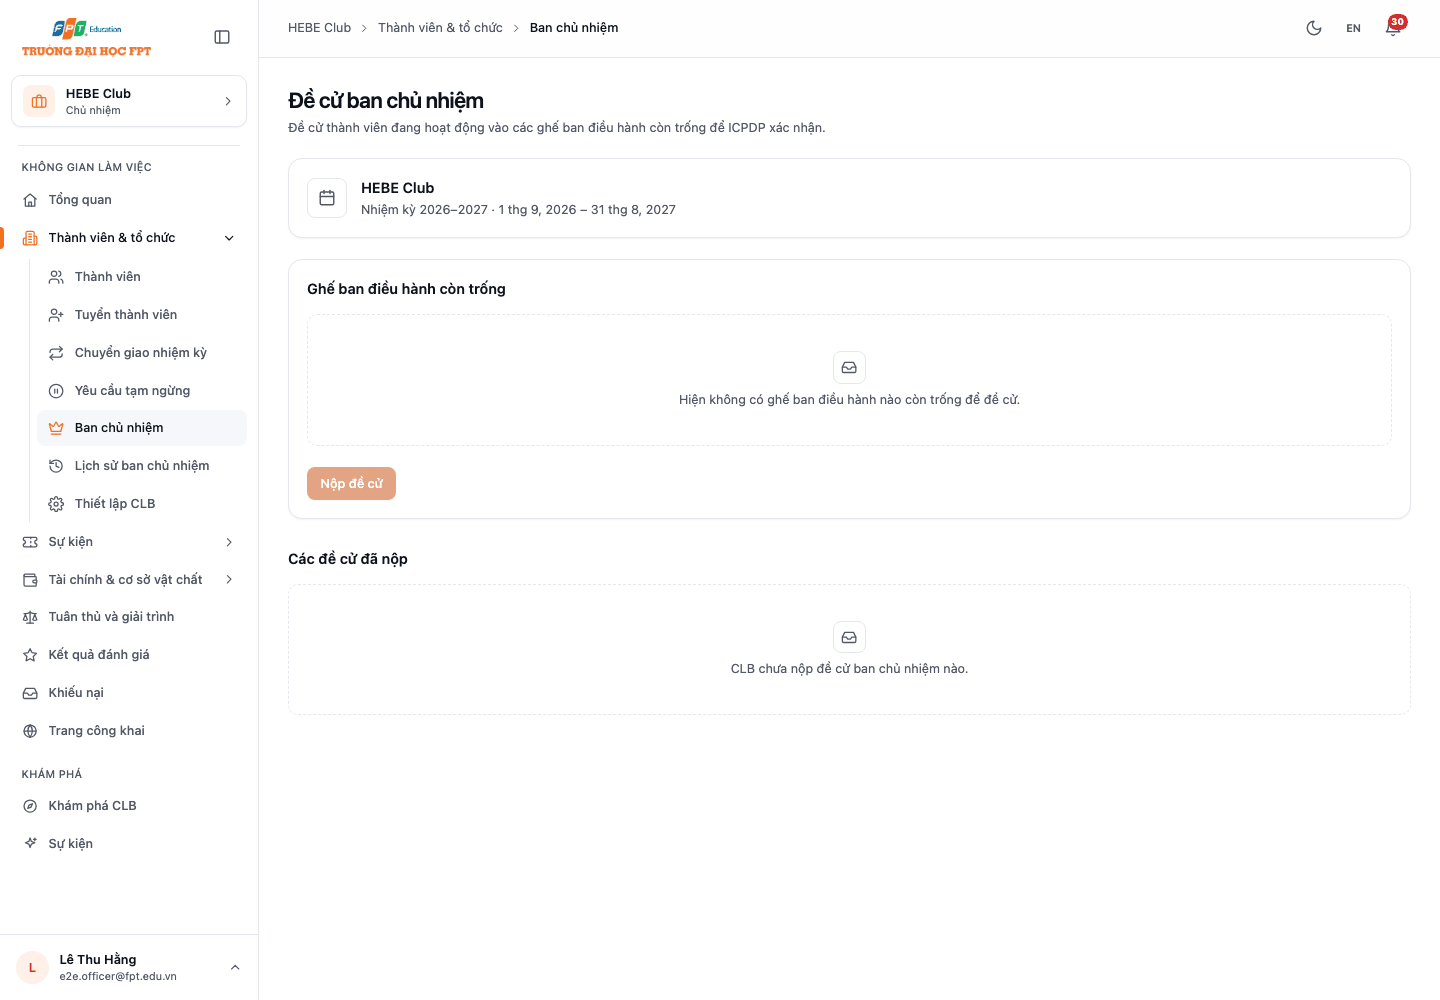
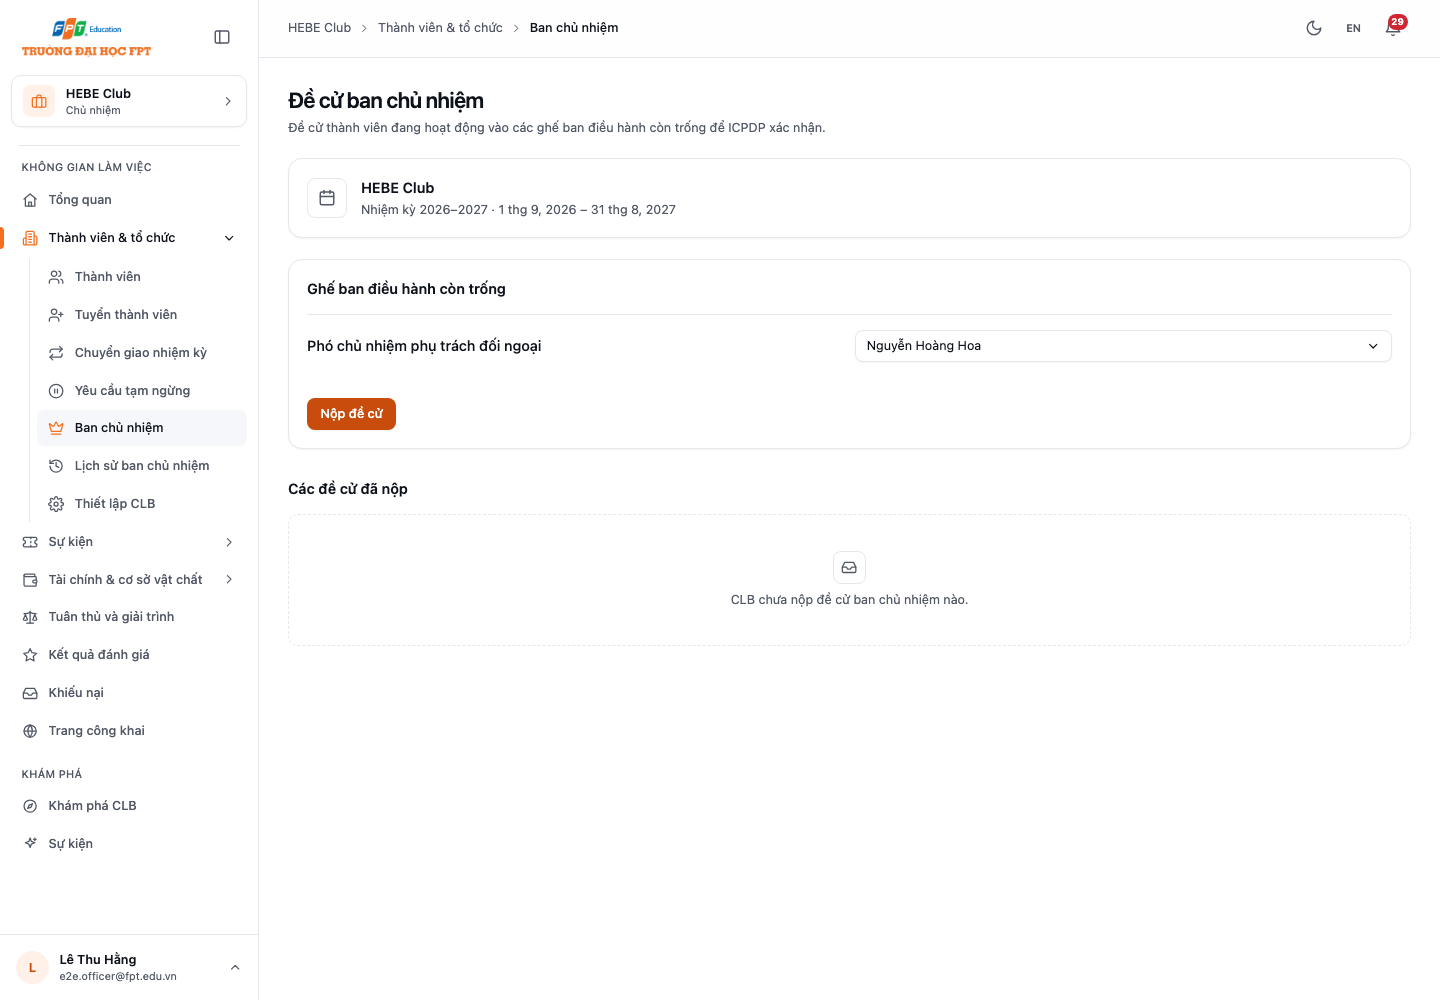
test(e2e): add guide data for board nomination, live defense room and evaluation drafts
prepare-guide.ts adds a vacant Vice Leader seat to HEBE (with a new role-structure
version), a defense session started five minutes before capture through the
defense usecases (scheduled and confirmed on a back-dated clock), and accepts two
Summer 2026 periodic reports with the evaluation deps so drafts are generated.
The capture nominates a member through the UI and adds screens 15, 72 and 73.

diff --git a/client/e2e/guide/prepare-guide.ts b/client/e2e/guide/prepare-guide.ts
@@ -2,8 +2,9 @@
 // guide screen shows a record in the state its chapter describes. Runs under tsx from
 // guide/global-setup.ts, only against the guide database. Writes go through the app's own usecases
 // and repositories, except where the server seeds themselves write directly (the approved event and
-// budget of the sponsored-payment demo, as seed-sponsored-payments.ts does) and the relabelling of
-// e2e test records into sample Vietnamese text.
+// budget of the sponsored-payment demo, as seed-sponsored-payments.ts does), the extra HEBE board
+// seat (written as a leadership transition writes one) and the relabelling of e2e test records into
+// sample Vietnamese text.
 import './defaults'
 
 import { createHash, randomUUID } from 'node:crypto'
@@ -23,7 +24,13 @@ import { mongoAuthRepository } from '../../../server/src/infra/db/mongo-auth-rep
 import { mongoClubApplicationRepository } from '../../../server/src/infra/db/mongo-club-application-repository.js'
 import { mongoClubFieldRepository } from '../../../server/src/infra/db/mongo-club-field-repository.js'
 import { mongoComplaintRepository } from '../../../server/src/infra/db/mongo-complaint-repository.js'
+import { mongoEvaluationRepository } from '../../../server/src/infra/db/mongo-evaluation-repository.js'
+import { mongoEvaluationSchemeRepository } from '../../../server/src/infra/db/mongo-evaluation-scheme-repository.js'
+import { mongoEventDefenseRepository } from '../../../server/src/infra/db/mongo-event-defense-repository.js'
+import { mongoEventProposalReviewRepository } from '../../../server/src/infra/db/mongo-event-proposal-review-repository.js'
 import { mongoFacilityBookingRepository } from '../../../server/src/infra/db/mongo-facility-booking-repository.js'
+import { roleSnapshot } from '../../../server/src/infra/db/mongo-leadership-transition-repository.js'
+import { mongoPeriodicReportRepository } from '../../../server/src/infra/db/mongo-periodic-report-repository.js'
 import { mongoPolicyRepository } from '../../../server/src/infra/db/mongo-policy-repository.js'
 import { mongoPostEventReportRepository } from '../../../server/src/infra/db/mongo-post-event-report-repository.js'
 import { mongoPropertyRepository } from '../../../server/src/infra/db/mongo-property-repository.js'
@@ -37,7 +44,15 @@ import {
   uploadApplicationDocument,
 } from '../../../server/src/usecase/club-application.js'
 import { decideComplaint } from '../../../server/src/usecase/complaint.js'
+import {
+  confirmClubEventDefense,
+  saveDefenseNote,
+  scheduleEventDefense,
+  startEventDefense,
+} from '../../../server/src/usecase/event-defense.js'
+import { claimEventProposalReview } from '../../../server/src/usecase/event-proposal-review.js'
 import { saveBooking, submitBooking } from '../../../server/src/usecase/facility-booking.js'
+import { decidePeriodicReport } from '../../../server/src/usecase/periodic-report.js'
 import { assertE2eDatabase, hebeClubId, mongoUri, officerEmail } from '../setup/env.js'
 
 /** Sample name shown for the officer account (also the HEBE leader) in the guide. */
@@ -527,6 +542,178 @@ async function forwardedComplaint(officer: Types.ObjectId): Promise<void> {
   )
 }
 
+/** Name of the HEBE board seat left vacant for the nomination screens (chapter 5). */
+export const vacantSeatName = 'Phó chủ nhiệm phụ trách đối ngoại'
+
+// A second Vice Leader seat in HEBE with nobody on it, so the club can nominate a member and ICPDP
+// can confirm the nomination (chapter 5). HEBE's seeded board has every seat filled. The seat is
+// written as a leadership transition (UC13) writes a new board seat: the position plus a new
+// role-structure version (BR56). The nomination itself is submitted through the UI by the capture.
+async function vacantBoardSeat(officer: Types.ObjectId): Promise<void> {
+  const seat = {
+    clubId: hebe,
+    code: 'VICE_LEADER',
+    name: vacantSeatName,
+    isBoardSeat: true,
+    isLeaderRole: false,
+    isDefaultMemberRole: false,
+    isSingleHolder: true,
+    permissionCodes: [],
+    isActive: true,
+  }
+  if (await m.clubPositions!.exists({ clubId: hebe, code: seat.code })) {
+    return
+  }
+  await m.clubPositions!.create(seat)
+  const positions = await m.clubPositions!.find({ clubId: hebe, isActive: true }).lean()
+  const previous = await m
+    .clubRoleStructureVersions!.findOne({ clubId: hebe })
+    .sort({ versionNo: -1 })
+    .lean()
+  await m.clubRoleStructureVersions!.create({
+    clubId: hebe,
+    versionNo: Number(previous?.versionNo ?? 0) + 1,
+    effectiveFrom: now,
+    source: 'TRANSITION',
+    roles: positions.map(roleSnapshot),
+    createdBy: officer,
+    reason: 'Bổ sung ghế Phó chủ nhiệm phụ trách đối ngoại',
+    createdAt: now,
+  })
+}
+
+/** Proposal whose defense is in progress when the guide is captured (chapter 9, BR63). */
+export const liveDefenseEventTitle = 'Hackathon An toàn thông tin 24h'
+
+// A defense session of a proposal under review that is in progress right now, so the live
+// defense room can be captured. Everything goes through the defense usecases: the review is
+// claimed and the session scheduled three days ago (the schedule needs 48 hours' notice), the
+// club leader confirmed it the next day, and the officer started it five minutes after its start.
+async function liveDefense(officer: Types.ObjectId): Promise<void> {
+  const event = await m
+    .events!.findOne({ title: liveDefenseEventTitle, state: 'Pending Approval' })
+    .lean()
+  if (!event) {
+    console.warn('[guide] skipped the live defense: no pending proposal to defend')
+    return
+  }
+  const leaderPosition = await m
+    .clubPositions!.findOne({ clubId: event.clubId, isLeaderRole: true, isActive: true })
+    .lean()
+  const leaderSeat =
+    leaderPosition &&
+    (await m
+      .clubPositionAssignments!.findOne({ positionId: leaderPosition._id, effectiveTo: null })
+      .lean())
+  const leaderMembership =
+    leaderSeat && (await m.clubMemberships!.findById(leaderSeat.membershipId).lean())
+  if (!leaderMembership) {
+    console.warn('[guide] skipped the live defense: the club has no leader')
+    return
+  }
+  const id = String(event._id)
+  const auth = mongoAuthRepository('*')
+  const reviews = mongoEventProposalReviewRepository()
+  const defenses = mongoEventDefenseRepository(reviews)
+  const minute = 60_000
+  const startAt = new Date(now.getTime() - 5 * minute)
+  const scheduledAt = new Date(now.getTime() - 3 * 86_400_000)
+  const durationMinutes = 90
+  const rooms = await defenses.listAvailableRooms(
+    startAt,
+    new Date(startAt.getTime() + durationMinutes * minute),
+  )
+  const room = rooms.find((item) => item.available)
+  if (!room) {
+    console.warn('[guide] skipped the live defense: no free room')
+    return
+  }
+  await claimEventProposalReview(reviews, auth, actor(officer), id, scheduledAt)
+  await scheduleEventDefense(
+    defenses,
+    auth,
+    actor(officer),
+    id,
+    {
+      title: 'Bảo vệ đề án Hackathon An toàn thông tin 24h',
+      startAt,
+      durationMinutes,
+      propertyId: room.id,
+      note: 'Trình bày phương án an ninh mạng cho cuộc thi và chi tiết ngân sách giải thưởng.',
+    },
+    scheduledAt,
+  )
+  await confirmClubEventDefense(
+    defenses,
+    mongoAccessRepository(),
+    actor(leaderMembership.userId),
+    String(event.clubId),
+    id,
+    new Date(scheduledAt.getTime() + 86_400_000),
+  )
+  await startEventDefense(defenses, auth, actor(officer), id, now)
+  await saveDefenseNote(
+    defenses,
+    auth,
+    actor(officer),
+    id,
+    [
+      '## Nhận xét chung',
+      '- Kế hoạch tổ chức rõ ràng, có phân công ban tổ chức theo ca 8 tiếng.',
+      '- Đề án đã có phương án dự phòng mất mạng và mất điện.',
+      '',
+      '## Cần làm rõ',
+      '1. Quy trình kiểm tra máy của thí sinh trước giờ thi.',
+      '2. Căn cứ đề xuất **4.500.000 đ** giải thưởng.',
+      '',
+      '## Kết luận sơ bộ',
+      'Có thể phê duyệt nếu CLB bổ sung quy chế cuộc thi.',
+    ].join('\n'),
+    now,
+  )
+}
+
+// Two submitted Summer 2026 periodic reports accepted with the evaluation dependencies wired, as the server
+// does, so each acceptance generates the club's evaluation draft for the period (chapter 18.2).
+async function evaluationDrafts(officer: Types.ObjectId): Promise<void> {
+  const policy = mongoPolicyRepository()
+  const auth = mongoAuthRepository('*')
+  const deps = {
+    repo: mongoPeriodicReportRepository(),
+    policy,
+    auth,
+    evaluation: {
+      repo: mongoEvaluationRepository(),
+      schemes: mongoEvaluationSchemeRepository(),
+      policy,
+      auth,
+    },
+  }
+  // Clubs already evaluated for the period keep their result; only the others get a draft.
+  const evaluated = await m.evaluations!.distinct('clubId', { periodCode: 'Summer 2026' })
+  const submitted = await m
+    .periodicReports!.find({
+      periodCode: 'Summer 2026',
+      state: 'Submitted',
+      clubId: { $nin: [hebe, ...evaluated] },
+    })
+    .sort({ clubId: 1 })
+    .limit(2)
+    .lean()
+  for (const report of submitted) {
+    await decidePeriodicReport(
+      deps,
+      actor(officer),
+      String(report._id),
+      {
+        outcome: 'Accept',
+        observation: 'Báo cáo đầy đủ, minh chứng khớp với hoạt động trong kỳ.',
+      },
+      now,
+    )
+  }
+}
+
 assertE2eDatabase()
 await mongoose.connect(mongoUri, { serverSelectionTimeoutMS: 5_000 })
 try {
@@ -537,6 +724,9 @@ try {
   await sponsoredPayments(officer)
   await facilityRequest(officer)
   await forwardedComplaint(officer)
+  await vacantBoardSeat(officer)
+  await liveDefense(officer)
+  await evaluationDrafts(officer)
   console.log('[guide] prepared the guide records')
 } finally {
   await mongoose.disconnect()

diff --git a/client/e2e/guide/screens.guide.ts b/client/e2e/guide/screens.guide.ts
@@ -135,7 +135,6 @@ test.describe('club leader (HEBE)', () => {
     ['06-workspace-chooser.png', '/workspace'],
     ['11-club-leader-home.png', hebe],
     ['12-club-member-home.png', `/club/${mayMua}`],
-    ['14-board-nomination.png', `${hebe}/board`],
     ['17-recruitment-campaign.png', `${hebe}/recruitment`],
     ['20-members-manage.png', `${hebe}/members`],
     ['21-members-readonly.png', `/club/${mayMua}/members`],
@@ -150,6 +149,15 @@ test.describe('club leader (HEBE)', () => {
       await shoot(page, file)
     })
   }
+
+  test('14-board-nomination', async ({ page }) => {
+    // prepare-guide.ts left one Vice Leader seat vacant; nominate a member to it. ICPDP reviews
+    // this nomination in 15-board-nomination-review.
+    await open(page, `${hebe}/board`)
+    await choose(page, /^Người được đề cử:/, 'Nguyễn Hoàng Hoa')
+    await shoot(page, '14-board-nomination.png')
+    await press(page, 'Nộp đề cử')
+  })
 
   test('19-recruitment-review', async ({ page }) => {
     await open(page, `${hebe}/recruitment`)
@@ -232,7 +240,6 @@ test.describe('ICPDP officer', () => {
     ['60-policy.png', '/workspace/policy'],
     ['61-club-fields.png', '/workspace/club-fields'],
     ['63-exports.png', '/workspace/exports'],
-    ['54-evaluations.png', '/workspace/evaluations'],
     ['64-icpdp-home.png', '/icpdp'],
     ['68-suspension-requests.png', '/workspace/suspension-requests'],
   ] as const) {
@@ -241,6 +248,41 @@ test.describe('ICPDP officer', () => {
       await shoot(page, file)
     })
   }
+
+  test('15-board-nomination-review', async ({ page }) => {
+    await open(page, '/workspace/board-nominations')
+    await press(page, 'Xem đề cử')
+    await press(page, 'Nhận quyết định')
+    await page
+      .getByRole('main')
+      .getByRole('textbox')
+      .last()
+      .fill('Thành viên tích cực, đủ điều kiện.')
+    await settle(page)
+    await shoot(page, '15-board-nomination-review.png')
+  })
+
+  test('72-live-defense-room', async ({ page }) => {
+    // The "Hackathon An toàn thông tin 24h" proposal (fixed id from seed-demo), whose defense
+    // prepare-guide.ts started five minutes before the capture.
+    await open(page, '/workspace/event-proposals/de0000000000000000000f02/defense')
+    await shoot(page, '72-live-defense-room.png')
+  })
+
+  test('54-evaluations, 73-evaluation-draft', async ({ page }) => {
+    // Accepting a periodic report generated these Summer 2026 drafts (prepare-guide.ts).
+    await open(page, '/workspace/evaluations?period=Summer%202026')
+    const draft = page.getByRole('main').getByRole('row').filter({ hasText: 'Đã có dữ liệu' })
+    await scrollTo(page, draft, 420)
+    await shoot(page, '54-evaluations.png')
+    await draft.first().getByRole('link', { name: 'Mở' }).click()
+    await settle(page)
+    // Open the data lineage of D5 (report discipline), which the accepted report feeds.
+    const d5 = page.getByRole('main').getByRole('button', { name: 'Xem dữ liệu' }).nth(4)
+    await d5.click()
+    await scrollTo(page, d5, 360)
+    await shoot(page, '73-evaluation-draft.png')
+  })
 
   test('16-transition-review', async ({ page }) => {
     await open(page, '/workspace/leadership-transitions')

diff --git a/client/e2e/guide/README.md b/client/e2e/guide/README.md
@@ -22,7 +22,7 @@ Ghi đè bằng `E2E_DB_NAME` (phải bắt đầu bằng `ucms-e2e`), `E2E_SERV
 | `../guide.config.ts` | Cấu hình Playwright riêng cho việc chụp |
 | `defaults.ts` | Đặt database và cổng mặc định trước khi `../setup/env.ts` được đọc |
 | `global-setup.ts` | Chạy `prepare-guide.ts`, rồi cấp phiên cho từng vai |
-| `prepare-guide.ts` | Dữ liệu riêng cho ảnh: hồ sơ thành lập, báo cáo sau sự kiện, kinh phí theo hạng mục, yêu cầu cơ sở vật chất, khiếu nại đã chuyển CLB; đổi nhãn e2e sang tiếng Việt. Ghi qua usecase/repository của server |
+| `prepare-guide.ts` | Dữ liệu riêng cho ảnh: hồ sơ thành lập, báo cáo sau sự kiện, kinh phí theo hạng mục, yêu cầu cơ sở vật chất, khiếu nại đã chuyển CLB, ghế ban chủ nhiệm còn trống ở HEBE, buổi bảo vệ đề án đang diễn ra, bản nháp đánh giá CLB; đổi nhãn e2e sang tiếng Việt. Ghi qua usecase/repository của server |
 | `capture.ts` | Mở trang, chờ dữ liệu tải xong (không còn skeleton, ảnh, toast), lưu PNG |
 | `screens.guide.ts` | Mỗi test chụp một hoặc vài ảnh, tên file trùng `images/manifest.json` |
 
